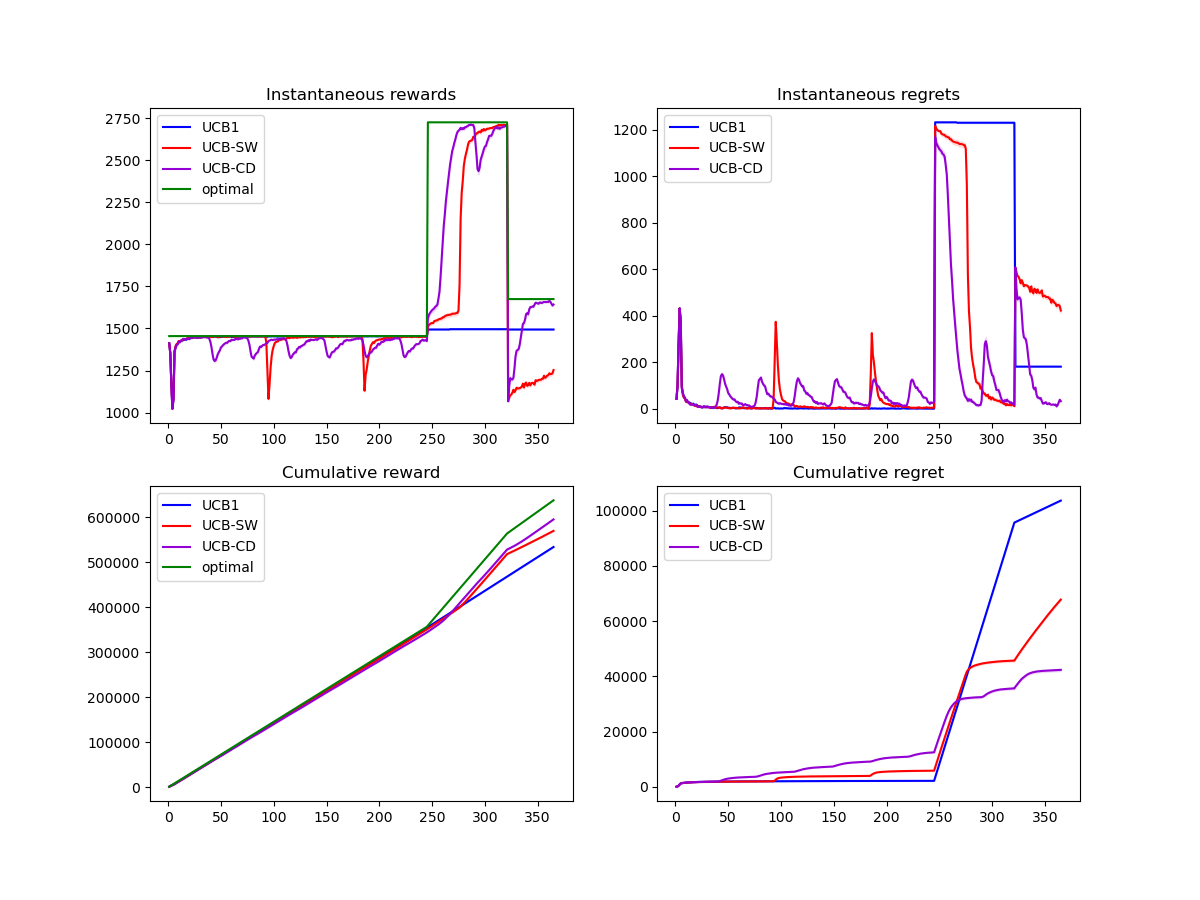
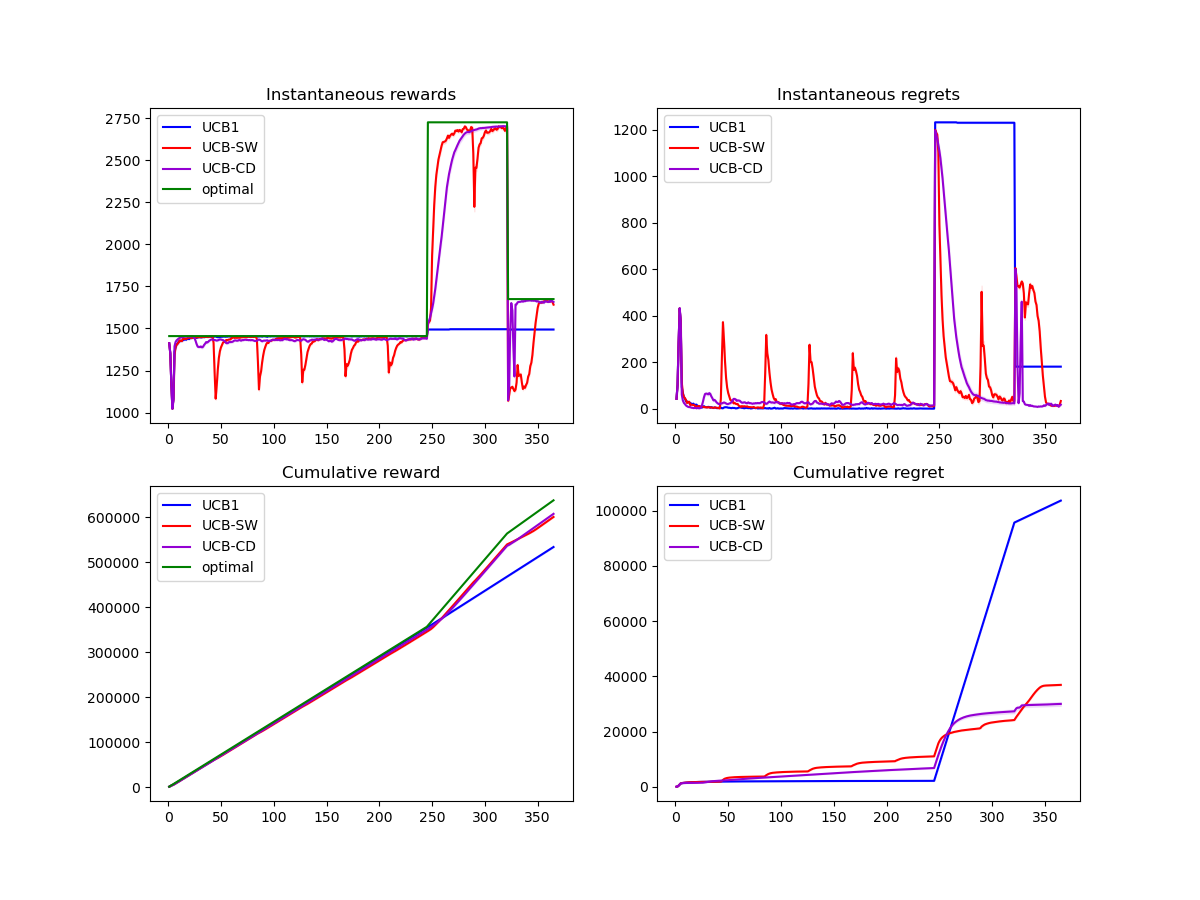
Tweaked UCB-CD
Tweaked UCB-CD and UCB-SW

diff --git a/OLA/Step5Experiment.py b/OLA/Step5Experiment.py
@@ -35,7 +35,7 @@ if __name__ == '__main__':
                                             T, n_runs=n_runs)
     # plot_single_class_sim_result(sim_object_ucb1, opt_rewards)
     print("-----Window UCB-----")
-    win_size = 90
+    win_size = 40
     sim_object_win = simulate_single_class(lambda: env_init_step5(rng),
                                             bids, prices,
                                             lambda env, bids, prices: Step5UCBWINLearner(env, bids, prices, win_size, c),
@@ -46,8 +46,9 @@ if __name__ == '__main__':
     sim_object_ucbcd = simulate_single_class(lambda: env_init_step5(rng), bids, prices,
                                              lambda env, bids, prices:
                                              Step5UCBChangeDetectorLearner(env, bids, prices,
-                                                                           c, 35, epsilon=0.05),
+                                                                           0.1, 20, epsilon=0.1, h=0.3),
                                              T, n_runs=n_runs)
+    # 0.1, 20, epsilon=0.1
 
     plot_multiple_single_class_results([sim_object_ucb1, sim_object_win, sim_object_ucbcd], opt_rewards,
                                        ['UCB1', 'UCB-SW', 'UCB-CD'], True,

diff --git a/OLA/base_learners.py b/OLA/base_learners.py
@@ -217,11 +217,10 @@ class Step5UCBLearner(SingleClassLearnerNonStationary):
 class Step5UCBChangeDetectorLearner(SingleClassLearnerNonStationary):
     def __init__(self, environment: envs.SingleClassEnvironmentNonStationary,
                  bids: np.ndarray, prices: np.ndarray, c: float, burn_in_steps: int,
-                 epsilon=0.05, max_num_changes=5,
-                 time_horizon=365):
+                 epsilon=0.05, h=0.3):
         super().__init__(environment, bids, prices)
         # self.h = np.log(time_horizon / max_num_changes)
-        self.h = 0.3
+        self.h = h
         self.c = c
         self.epsilon = epsilon
         self.cur_rand_walk_upper = 0
@@ -264,6 +263,8 @@ class Step5UCBChangeDetectorLearner(SingleClassLearnerNonStationary):
                 # print('self.mu0 = {}'.format(self.mu_0))
                 # print('step_upper = {}'.format(step_upper))
                 # print('step_lower = {}'.format(step_lower))
+                self.cur_rand_walk_lower = 0
+                self.cur_rand_walk_upper = 0
                 self.cur_rand_walk_lower = np.max([0, self.cur_rand_walk_lower + step_lower])
                 self.cur_rand_walk_upper = np.max([0, self.cur_rand_walk_upper + step_upper])
 
